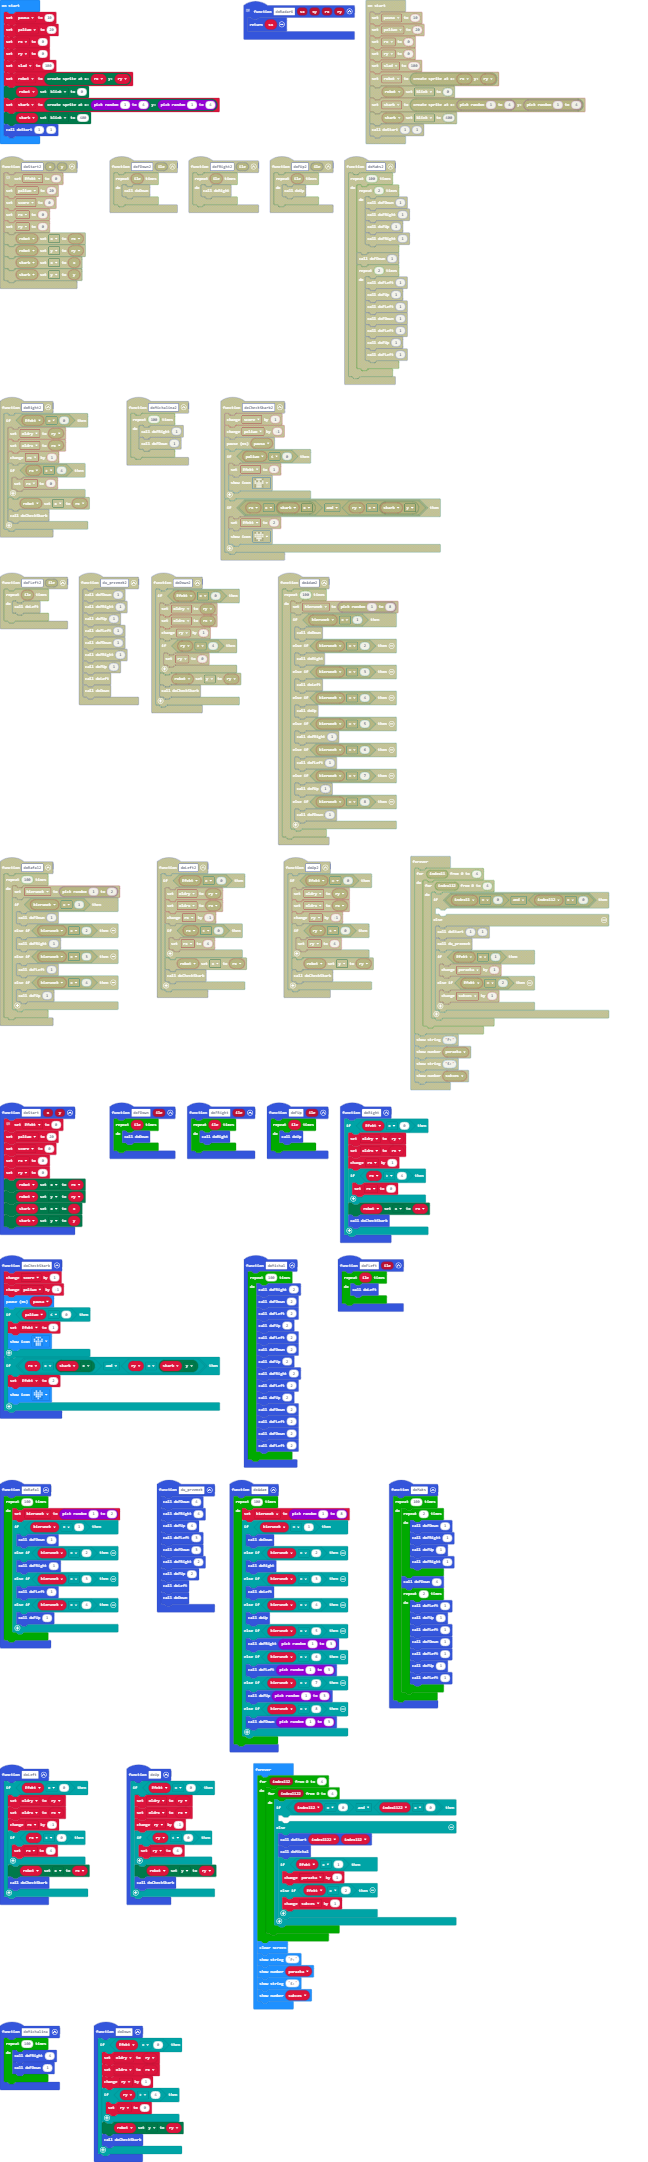
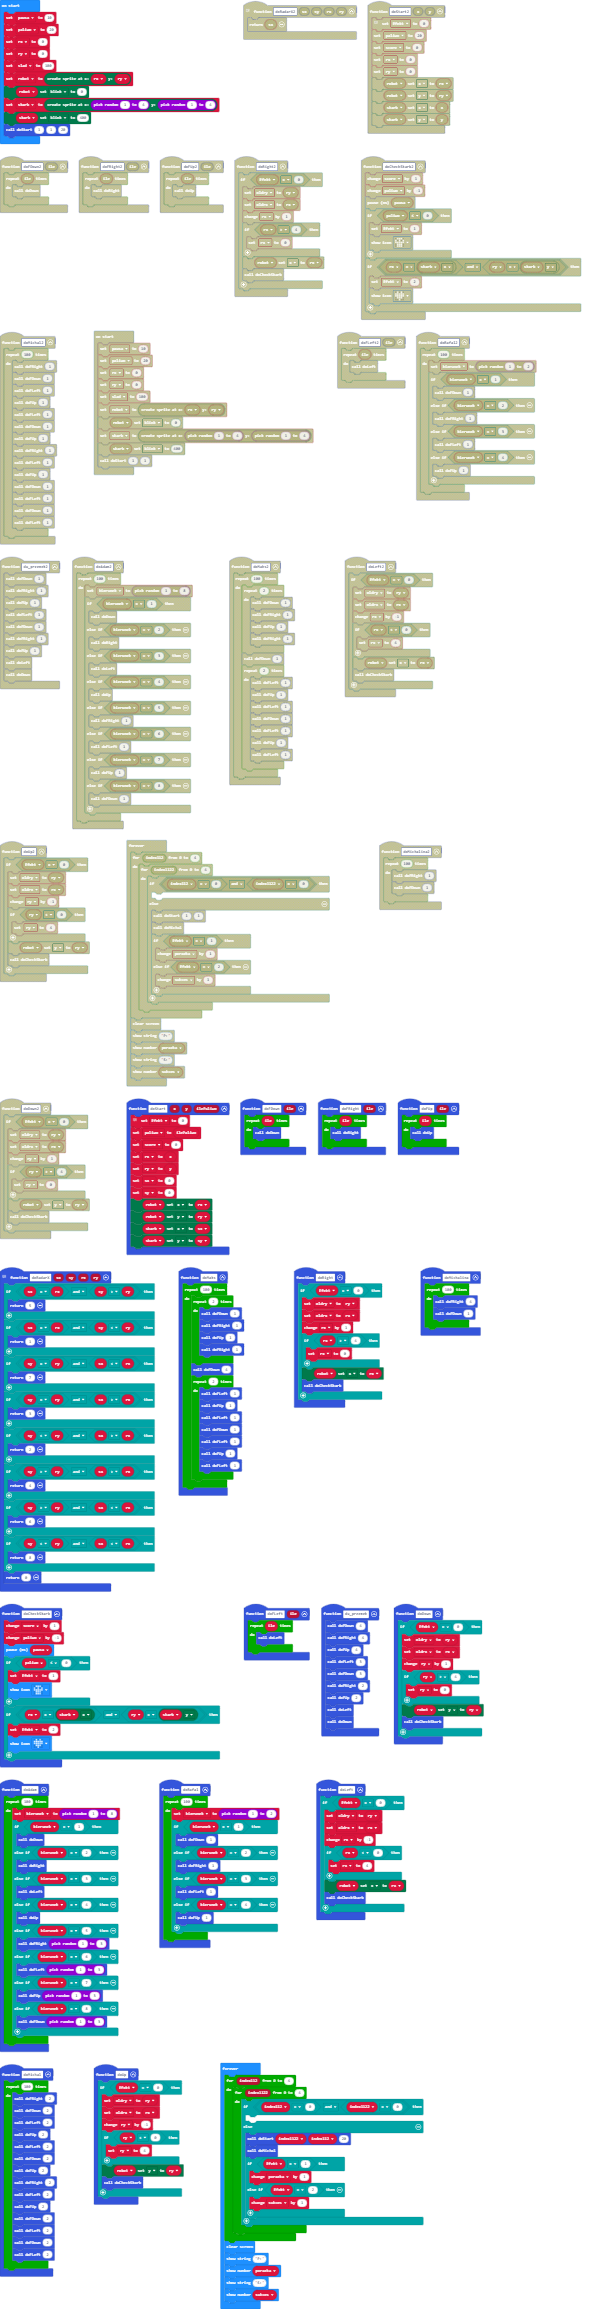
Update main.blocks, main.ts

diff --git a/main.ts b/main.ts
@@ -1,20 +1,17 @@
-function doStart (x: number, y: number, ilePaliwo: number) {
+function doStart (robotx: number, roboty: number, skarbx: number, skarby: number, ilePaliwo: number) {
     // 0-Puste
     // 1-Brakło paliwa
     // 2-Wygrałeś
     Efekt = 0
     paliwo = ilePaliwo
     score = 0
-    rx = x
-    ry = y
-    sx = 0
-    sy = 0
+    rx = robotx
+    ry = roboty
     robot.set(LedSpriteProperty.X, rx)
     robot.set(LedSpriteProperty.Y, ry)
-    skarb.set(LedSpriteProperty.X, sx)
-    skarb.set(LedSpriteProperty.Y, sy)
+    skarb.set(LedSpriteProperty.X, skarbx)
+    skarb.set(LedSpriteProperty.Y, skarby)
 }
-
 
 function doFDown (ile: number) {
     for (let index = 0; index < ile; index++) {
@@ -41,31 +38,31 @@ function doFUp (ile: number) {
 // "sy>ry"	"sx<rx"	6
 // "sy<ry"	"sx<rx"	8
 function doRadarX (sx: number, sy: number, rx: number, ry: number) {
-    if (sx==rx && sy>ry) {
+    if (sx == rx && sy > ry) {
         return 5
     }
-    if (sx==rx && sy<ry) {
+    if (sx == rx && sy < ry) {
         return 1
     }
-    if (sy==ry && sx<rx) {
+    if (sy == ry && sx < rx) {
         return 7
     }
-    if (sy==ry && sx>rx) {
+    if (sy == ry && sx > rx) {
         return 3
     }
-    if (sy<ry && sx>rx) {
+    if (sy < ry && sx > rx) {
         return 2
     }
-    if (sy>ry && sx>rx) {
+    if (sy > ry && sx > rx) {
         return 4
     }
-    if (sy>ry && sx<rx) {
+    if (sy > ry && sx < rx) {
         return 6
     }
-    if (sy<ry && sx<rx) {
+    if (sy < ry && sx < rx) {
         return 8
     }
-return 0
+    return 0
 }
 function doMaks () {
     for (let index = 0; index < 100; index++) {
@@ -111,11 +108,11 @@ function doCheckSkarb () {
     basic.pause(pausa)
     if (paliwo <= 0) {
         Efekt = 1
-        basic.showIcon(IconNames.Skull)
+        if (wizual) {basic.showIcon(IconNames.Skull)}
     }
     if (rx == skarb.get(LedSpriteProperty.X) && ry == skarb.get(LedSpriteProperty.Y)) {
         Efekt = 2
-        basic.showIcon(IconNames.Heart)
+        if (wizual) {basic.showIcon(IconNames.Heart)}
     }
 }
 function doFLeft (ile: number) {
@@ -224,23 +221,73 @@ function doUp () {
         doCheckSkarb()
     }
 }
+
+function doWszystkieOpcje () {
+    for (let x1 = 0; x1 <= 4; x1++) {
+        for (let x2 = 0; x2 <= 4; x2++) {
+            for (let y1 = 0; y1 <= 4; y1++) {
+                for (let y2 = 0; y2 <= 4; y2++) {
+                    if (x1 == x2 && y1 == y2) {
+                    	
+                    } else {
+                        doStart(x1, y1, x2, y2,rozmiarBaku)
+                        du_przemek()
+                        if (Efekt == 1) {
+                            porazka += 1
+                        } else if (Efekt == 2) {
+                            sukces += 1
+                        }
+                    }
+                }
+            }
+        }
+    }
+}
+
+function doLosujRobotiRozbitek () {
+    let x1 = randint(0, 4)
+    let x2 = randint(0, 4)
+    let y1 = randint(0, 4)
+    let y2 = randint(0, 4)
+    while (x1 == x2 && y1 == y2) {
+        if (x1 == x2) {
+            x1 = randint(0, 4)
+        } else if (y1 == y2) {
+            y1 = randint(0, 4)
+        }
+    }
+    doStart(x1, y1, x2, y2,rozmiarBaku)
+    doAdam()
+    if (Efekt == 1) {
+        porazka += 1
+    } else if (Efekt == 2) {
+        sukces += 1
+    }
+}
+
+let wizual = false
 let sukces = 0
 let porazka = 0
 let kierunek = 0
 let oldrx = 0
 let oldry = 0
+let sy = 0
+let sx = 0
 let score = 0
 let Efekt = 0
 let skarb: game.LedSprite = null
 let robot: game.LedSprite = null
 let ry = 0
 let rx = 0
-let sy = 0
-let sx = 0
 let paliwo = 0
 let pausa = 0
-pausa = 10
-paliwo = 20
+if (wizual){
+    pausa = 100
+}
+
+let rozmiarBaku = 20
+
+paliwo = rozmiarBaku
 rx = 0
 ry = 0
 let slad = 100
@@ -248,26 +295,21 @@ robot = game.createSprite(rx, ry)
 robot.set(LedSpriteProperty.Blink, 0)
 skarb = game.createSprite(randint(1, 4), randint(1, 4))
 skarb.set(LedSpriteProperty.Blink, 400)
-doStart(1, 1,20)
+doStart(1, 1,1,1, 20)
+
 basic.forever(function () {
-    for (let index112 = 0; index112 <= 4; index112++) {
-        for (let index1122 = 0; index1122 <= 4; index1122++) {
-            if (index112 == 0 && index1122 == 0) {
-            	
-            } else {
-                doStart(index1122, index112,20)
-                doMichal()
-                if (Efekt == 1) {
-                    porazka += 1
-                } else if (Efekt == 2) {
-                    sukces += 1
-                }
-            }
-        }
+
+    //tutaj wstawiasz wywolanie funkcji sprawdzajacej efektywnosc algorytmu
+    for (let index = 0; index < 1000; index++) {
+        doLosujRobotiRozbitek()
     }
+    robot.delete()
+    skarb.delete()
     basic.clearScreen()
-    basic.showString("P:")
-    basic.showNumber(porazka)
-    basic.showString("S:")
-    basic.showNumber(sukces)
+    while (true) {
+        basic.showString("P:")
+        basic.showNumber(porazka)
+        basic.showString("S:")
+        basic.showNumber(sukces)
+    }
 })
